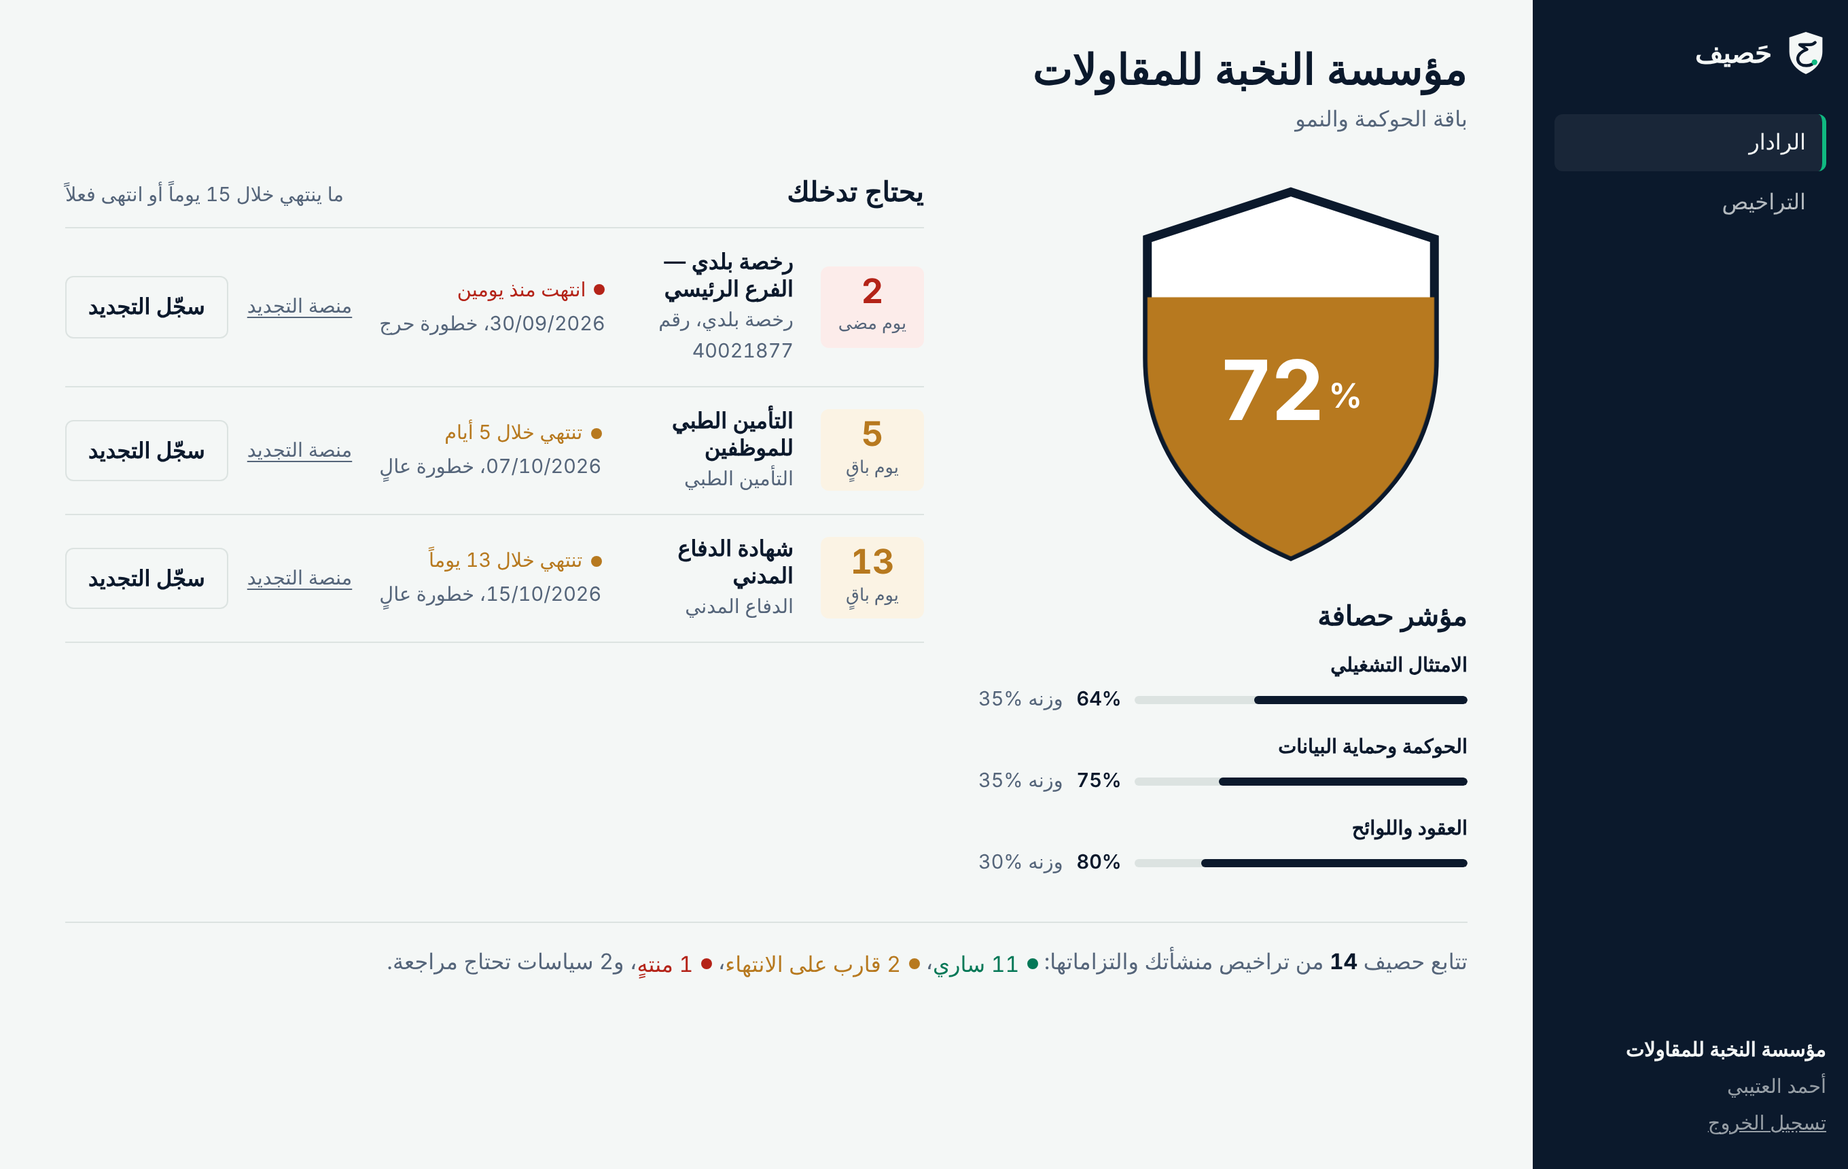
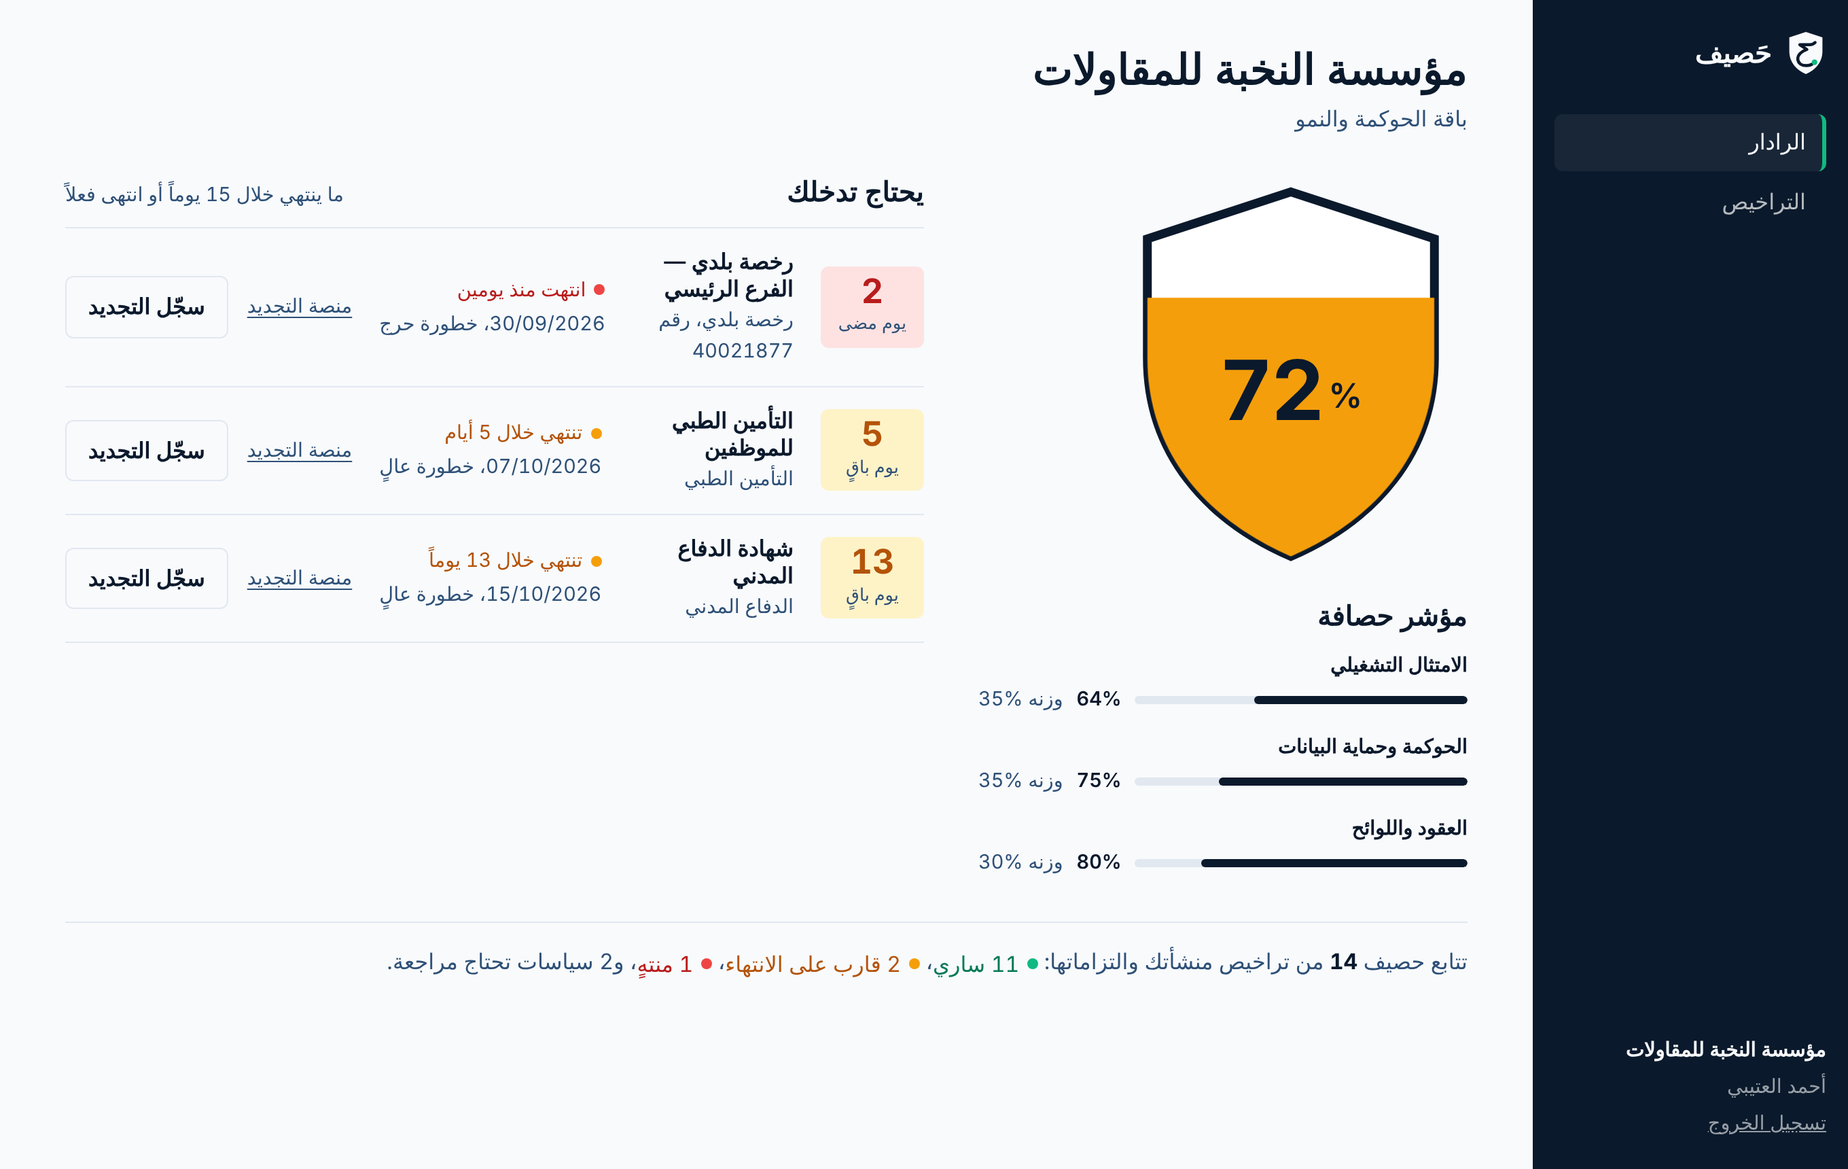
Brand palette, dev tooling (docker-compose, seed, dev.sh), CI, README
Claude-Session: https://claude.ai/code/session_016u1ktuMp1r5oLJ3fdV4WPW

diff --git a/packages/shared/src/tokens.css b/packages/shared/src/tokens.css
@@ -1,20 +1,47 @@
 /* رموز التصميم المشتركة — حَصيف
-   الكحلي والزمردي من هوية الشعار. الكهرماني والقرمزي لحالتي "قارب" و"منتهٍ" فقط،
-   فلا يُستخدم أي لون حالة للزينة: اللون في هذه الواجهة معلومة. */
+   لوحة الهوية المعتمدة من صاحب المشروع (--haseef-*) كما هي.
+   ألوان الحالة لا تُستخدم للزينة: اللون في هذه الواجهة معلومة.
+
+   قاعدة التباين: الزمردي والكهرماني والأحمر بدرجاتها المعتمدة للتعبئة والشارات
+   والنقاط فقط. النص الصغير بلون حالة يستخدم الدرجة "-text" الأغمق من نفس اللون،
+   لأن #F59E0B و #10B981 على الأبيض لا تبلغ تباين 4.5:1 المطلوب للقراءة. */
 
 :root {
-  --ink: #0B192C;          /* النص والهوية */
-  --ink-2: #1B2B42;        /* سطوح داكنة ثانوية */
-  --emerald: #10B981;      /* الهوية + ساري/ممتثل */
-  --emerald-deep: #047857; /* نص زمردي على خلفية فاتحة (تباين كافٍ) */
-  --amber: #B7791F;        /* قارب على الانتهاء */
-  --amber-wash: #FBF3E4;
-  --crimson: #B42318;      /* منتهٍ / حرج */
-  --crimson-wash: #FCECEA;
-  --paper: #F4F7F6;        /* خلفية باردة لا كريمية */
-  --surface: #FFFFFF;
-  --line: #DCE3E1;
-  --muted: #55657A;
+  /* ===== لوحة الهوية المعتمدة ===== */
+  --haseef-navy-deep:     #0B192C;
+  --haseef-navy-surface:  #1E3E62;
+  --haseef-navy-subtle:   #2E5077;
+  --haseef-emerald:       #10B981;
+  --haseef-emerald-light: #D1FAE5;
+  --haseef-emerald-glow:  rgba(16, 185, 129, 0.25);
+  --haseef-danger:        #EF4444;
+  --haseef-warning:       #F59E0B;
+  --haseef-bg-canvas:     #F8FAFC;
+  --haseef-bg-card:       #FFFFFF;
+
+  /* درجات نص مشتقة من اللوحة (للتباين فقط) */
+  --haseef-emerald-text:  #047857;
+  --haseef-warning-text:  #B45309;
+  --haseef-danger-text:   #B91C1C;
+  --haseef-warning-light: #FEF3C7;
+  --haseef-danger-light:  #FEE2E2;
+
+  /* ===== الأسماء الدلالية المستخدمة في الواجهتين ===== */
+  --ink: var(--haseef-navy-deep);
+  --ink-2: var(--haseef-navy-surface);
+  --emerald: var(--haseef-emerald);
+  --emerald-deep: var(--haseef-emerald-text);
+  --emerald-wash: var(--haseef-emerald-light);
+  --amber-fill: var(--haseef-warning);
+  --amber: var(--haseef-warning-text);
+  --amber-wash: var(--haseef-warning-light);
+  --crimson-fill: var(--haseef-danger);
+  --crimson: var(--haseef-danger-text);
+  --crimson-wash: var(--haseef-danger-light);
+  --paper: var(--haseef-bg-canvas);
+  --surface: var(--haseef-bg-card);
+  --line: #E2E8F0;
+  --muted: var(--haseef-navy-subtle);
 
   --font: "IBM Plex Sans Arabic", "Segoe UI", Tahoma, sans-serif;
 
@@ -74,7 +101,7 @@ button, input, select { font: inherit; color: inherit; }
 .field input, .field select {
   padding: 9px 12px; border: 1px solid var(--line); border-radius: var(--r-sm); background: var(--surface);
 }
-.field input:focus, .field select:focus { border-color: var(--ink); outline: none; box-shadow: 0 0 0 3px rgb(16 185 129 / 0.25); }
+.field input:focus, .field select:focus { border-color: var(--ink); outline: none; box-shadow: 0 0 0 3px var(--haseef-emerald-glow); }
 
 .error { color: var(--crimson); font-size: var(--t-sm); }
 .muted { color: var(--muted); }
@@ -82,6 +109,9 @@ button, input, select { font: inherit; color: inherit; }
 /* شارات الحالة: النقطة تحمل اللون، والنص يبقى مقروءاً */
 .status { display: inline-flex; align-items: center; gap: 6px; font-size: var(--t-sm); white-space: nowrap; }
 .status::before { content: ""; width: 8px; height: 8px; border-radius: 50%; background: currentColor; }
+.status[data-s="ACTIVE"]::before { background: var(--emerald); }
+.status[data-s="EXPIRING_SOON"]::before { background: var(--amber-fill); }
+.status[data-s="EXPIRED"]::before { background: var(--crimson-fill); }
 .status[data-s="ACTIVE"] { color: var(--emerald-deep); }
 .status[data-s="EXPIRING_SOON"] { color: var(--amber); }
 .status[data-s="EXPIRED"] { color: var(--crimson); }

diff --git a/apps/client/app/globals.css b/apps/client/app/globals.css
@@ -42,10 +42,10 @@
 .seal-figure { position: relative; width: min(100%, 260px); aspect-ratio: 64 / 72; }
 .seal-figure svg { width: 100%; height: 100%; display: block; overflow: visible; }
 .seal-level { fill: var(--emerald); transform-box: fill-box; transform-origin: bottom; animation: seal-rise 1.1s cubic-bezier(.2,.7,.2,1) both; }
-.seal-figure[data-tone="warn"] .seal-level { fill: var(--amber); }
-.seal-figure[data-tone="bad"] .seal-level { fill: var(--crimson); }
+.seal-figure[data-tone="warn"] .seal-level { fill: var(--amber-fill); }
+.seal-figure[data-tone="bad"] .seal-level { fill: var(--crimson-fill); }
 @keyframes seal-rise { from { transform: scaleY(0); } }
-/* الرقم فوق مستوى الامتلاء يُكتب بالأبيض، وتحته بالكحلي */
+/* الرقم كحلي دائماً: تباينه كافٍ على الزمردي والكهرماني والأحمر وعلى الأبيض */
 .seal-value {
   position: absolute; inset: 0; display: flex; align-items: center; justify-content: center;
   padding-top: 10%; direction: ltr;
@@ -55,8 +55,7 @@
   font-size: clamp(3rem, 9vw, var(--t-display)); font-weight: 700; line-height: 1; letter-spacing: -0.02em; color: var(--ink);
 }
 .seal-pct { font-size: var(--t-xl); font-weight: 600; margin-inline-start: 4px; margin-top: 0.35em; color: var(--ink); }
-.seal-figure[data-over="true"] .seal-number,
-.seal-figure[data-over="true"] .seal-pct { color: #fff; }
+
 .seal-unrated { font-size: var(--t-lg); font-weight: 600; color: var(--muted); background: var(--surface); padding: 2px 10px; border-radius: var(--r-sm); }
 
 .pillars { margin: 12px 0 0; display: grid; gap: 12px; }
@@ -98,6 +97,7 @@
 .tally { margin: 32px 0 0; padding-top: 16px; border-top: 1px solid var(--line); color: var(--muted); }
 .tally strong { color: var(--ink); }
 .tally .status { font-size: inherit; }
+.row[data-s="EXPIRING_SOON"] .row-days-n { color: var(--amber); }
 
 /* ---------- نموذج الإضافة ---------- */
 .add-form { margin-bottom: 24px; display: grid; gap: 16px; }

diff --git a/apps/admin/app/globals.css b/apps/admin/app/globals.css
@@ -48,14 +48,14 @@
 .table th.num { text-align: end; }
 .table td { padding: 10px 14px; border-bottom: 1px solid var(--line); vertical-align: top; }
 .table tr:last-child td { border-bottom: 0; }
-.table tbody tr:hover { background: #FAFCFB; }
+.table tbody tr:hover { background: var(--paper); }
 
 .filters { display: flex; gap: 6px; flex-wrap: wrap; }
 .filters button { padding: 5px 12px; border: 1px solid var(--line); background: var(--surface); border-radius: 999px; cursor: pointer; font-size: var(--t-sm); }
 .filters button[aria-pressed="true"] { background: var(--ink); color: var(--paper); border-color: var(--ink); }
 
 .pill { display: inline-block; padding: 1px 8px; border-radius: 999px; font-size: var(--t-xs); font-weight: 600; background: var(--paper); }
-.pill[data-tone="good"] { background: #E7F7F0; color: var(--emerald-deep); }
+.pill[data-tone="good"] { background: var(--emerald-wash); color: var(--emerald-deep); }
 .pill[data-tone="warn"] { background: var(--amber-wash); color: var(--amber); }
 .pill[data-tone="bad"] { background: var(--crimson-wash); color: var(--crimson); }
 

diff --git a/apps/client/components/ScoreSeal.tsx b/apps/client/components/ScoreSeal.tsx
@@ -22,7 +22,7 @@ export function ScoreSeal({ score }: { score: Score }) {
 
   return (
     <section className="seal" aria-labelledby="seal-title">
-      <div className="seal-figure" data-tone={t} data-over={level >= 58}>
+      <div className="seal-figure" data-tone={t}>
         <svg viewBox="0 0 64 72" aria-hidden="true">
           <defs>
             <clipPath id="seal-clip"><path d={SHIELD} /></clipPath>

diff --git a/apps/api/scripts/seed.py b/apps/api/scripts/seed.py
@@ -1,0 +1,97 @@
+"""بيانات تجريبية للتطوير: منشأتان، مستخدم لكل منهما، مستشار خارجي يخدم الاثنتين،
+ومدير منصة. كلمات المرور تُطبع عند التشغيل ولا تُخزَّن في المستودع.
+
+    python -m scripts.seed
+"""
+
+from __future__ import annotations
+
+import secrets
+from datetime import date, datetime, timedelta, timezone
+
+from sqlalchemy import text
+
+from haseef.db import platform_tx
+from haseef.security import hash_password
+from haseef.services.score_service import recompute
+
+TODAY = date.today()
+
+
+def run() -> None:
+    passwords: dict[str, str] = {}
+
+    def user(conn, email: str, name: str, phone: str | None = None, admin: bool = False) -> str:
+        pw = secrets.token_urlsafe(9)
+        passwords[email] = pw
+        return conn.execute(text("""
+            INSERT INTO users (email, full_name, phone_number, password_hash, is_platform_admin)
+            VALUES (:e, :n, :p, :h, :a)
+            ON CONFLICT (email) DO UPDATE SET password_hash = EXCLUDED.password_hash
+            RETURNING id"""), {"e": email, "n": name, "p": phone, "h": hash_password(pw), "a": admin}).scalar_one()
+
+    with platform_tx() as conn:
+        orgs = {}
+        for cr, name, industry, tier in [
+            ("1010123456", "مؤسسة النخبة للمقاولات", "المقاولات", "PROFESSIONAL_GRC"),
+            ("2050654321", "شركة واحة التقنية", "تقنية المعلومات", "ESSENTIAL"),
+        ]:
+            org_id = conn.execute(text("""
+                INSERT INTO organizations (cr_number, name, entity_legal_type, industry_type, commercial_size)
+                VALUES (:cr, :n, 'LLC', :i, 'SMALL')
+                ON CONFLICT (cr_number) DO UPDATE SET name = EXCLUDED.name RETURNING id"""),
+                {"cr": cr, "n": name, "i": industry}).scalar_one()
+            orgs[name] = org_id
+            conn.execute(text("DELETE FROM subscriptions WHERE org_id = :o"), {"o": org_id})
+            conn.execute(text("""
+                INSERT INTO subscriptions (org_id, plan_tier, billing_cycle, starts_at, ends_at)
+                VALUES (:o, :t, 'MONTHLY', :s, :e)"""),
+                {"o": org_id, "t": tier, "s": datetime.now(timezone.utc) - timedelta(days=10),
+                 "e": datetime.now(timezone.utc) + timedelta(days=20)})
+
+        nukhba, waha = orgs["مؤسسة النخبة للمقاولات"], orgs["شركة واحة التقنية"]
+        ahmad = user(conn, "ahmad@nukhba.example", "أحمد العتيبي", "+966500000001")
+        sara = user(conn, "sara@waha.example", "سارة القحطاني", "+966500000002")
+        advisor = user(conn, "advisor@example.sa", "مكتب الامتثال الاستشاري")
+        user(conn, "ops@haseef.sa", "فريق عمليات حصيف", admin=True)
+
+        for org, uid, role in [(nukhba, ahmad, "ORG_ADMIN"), (waha, sara, "ORG_ADMIN"),
+                               (nukhba, advisor, "EXTERNAL_ADVISOR"), (waha, advisor, "EXTERNAL_ADVISOR")]:
+            conn.execute(text("""INSERT INTO memberships (org_id, user_id, role) VALUES (:o, :u, :r)
+                                 ON CONFLICT (org_id, user_id) DO NOTHING"""), {"o": org, "u": uid, "r": role})
+
+        conn.execute(text("DELETE FROM compliance_items WHERE org_id IN (:a, :b)"), {"a": nukhba, "b": waha})
+        items = [
+            (nukhba, "COMMERCIAL_REG", "السجل التجاري", 140, "CRITICAL", "https://mc.gov.sa"),
+            (nukhba, "BALADY", "رخصة بلدي — الفرع الرئيسي", -2, "CRITICAL", "https://balady.gov.sa"),
+            (nukhba, "CHI_INSURANCE", "التأمين الطبي للموظفين", 5, "HIGH", None),
+            (nukhba, "CIVIL_DEFENSE", "شهادة الدفاع المدني", 13, "HIGH", "https://salamah.998.gov.sa"),
+            (nukhba, "QIWA_NITAQAT", "شهادة السعودة", 75, "HIGH", "https://qiwa.sa"),
+            (nukhba, "ZATCA", "شهادة الزكاة", 210, "HIGH", "https://zatca.gov.sa"),
+            (waha, "COMMERCIAL_REG", "السجل التجاري", 25, "CRITICAL", "https://mc.gov.sa"),
+            (waha, "GOSI", "شهادة التأمينات", 90, "HIGH", "https://gosi.gov.sa"),
+        ]
+        for org, cat, title, days, risk, url in items:
+            conn.execute(text("""
+                INSERT INTO compliance_items (org_id, category, title, expiry_date, risk_level, renewal_url)
+                VALUES (:o, :c, :t, :d, :r, :u)"""),
+                {"o": org, "c": cat, "t": title, "d": TODAY + timedelta(days=days), "r": risk, "u": url})
+
+        conn.execute(text("DELETE FROM internal_policies WHERE org_id = :o"), {"o": nukhba})
+        for ptype, title, days in [("CONFLICT_OF_INTEREST", "سياسة تعارض المصالح", 120),
+                                   ("PRIVACY_POLICY", "سياسة الخصوصية", -10)]:
+            conn.execute(text("""INSERT INTO internal_policies (org_id, policy_type, title, review_due_date)
+                                 VALUES (:o, :p, :t, :d)"""),
+                         {"o": nukhba, "p": ptype, "t": title, "d": TODAY + timedelta(days=days)})
+
+    for org in (nukhba, waha):
+        with platform_tx() as conn:
+            recompute(conn, org)
+
+    print("\nحسابات التطوير (تتغير كلمات المرور مع كل تشغيل):")
+    for email, pw in passwords.items():
+        print(f"  {email:<26} {pw}")
+
+
+if __name__ == "__main__":
+    run()

diff --git a/README.md b/README.md
@@ -1,0 +1,71 @@
+# حَصيف — منصة الحوكمة والامتثال
+
+منصة سعودية لمتابعة تراخيص المنشآت وحوكمتها وامتثالها لنظام حماية البيانات الشخصية.
+المواصفات الكاملة في [`docs/SPEC.md`](docs/SPEC.md) (الإصدار 1.1).
+
+## التشغيل على جهازك (ماك)
+
+**مرة واحدة فقط**، ثبّت:
+1. [Docker Desktop](https://www.docker.com/products/docker-desktop/) وشغّله.
+2. [Python 3.12+](https://www.python.org/downloads/).
+3. [Node.js 20+](https://nodejs.org/).
+
+ثم من تطبيق **Terminal**، داخل مجلد المشروع:
+
+```bash
+./scripts/dev.sh
+```
+
+يشغّل السكربت قاعدة البيانات، ويثبّت الحزم، ويشغّل الاختبارات، وينشئ بيانات تجريبية **ويطبع كلمات المرور**، ثم يفتح:
+
+| | الرابط |
+|---|---|
+| واجهة العميل | http://localhost:3000 |
+| لوحة الإدارة | http://localhost:3001 |
+| توثيق واجهة الخادم | http://localhost:8000/docs |
+
+حسابات التجربة: `ahmad@nukhba.example` (عميل)، `advisor@example.sa` (مستشار يخدم منشأتين)، `ops@haseef.sa` (فريق حصيف).
+
+## البنية
+
+```
+apps/
+  api/        FastAPI + Celery — الخادم ومحرك التنبيهات والذكاء الاصطناعي
+    haseef/domain/    المنطق النقي (التنبيهات، المؤشر، حجب البيانات، العربية) — مختبر بالكامل
+    haseef/services/  ربط المنطق بقاعدة البيانات
+    haseef/ai/        مسار التدقيق والتحقق من مخرجات النموذج
+    haseef/routers/   واجهات REST
+  client/     Next.js — app.haseef.sa
+  admin/      Next.js — admin.haseef.sa
+packages/
+  shared/     الأنواع، عميل الواجهة، الصياغة العربية، رموز التصميم
+  brand/      الشعار (SVG)
+db/
+  migrations/ المخطط (PostgreSQL 16 + pgvector + RLS)
+  tests/      اختبارات العزل بين المنشآت والعروض + فحص كل استعلامات الخادم
+```
+
+## الاختبارات
+
+```bash
+db/tests/run.sh                                   # العزل بين المنشآت (RLS) والعروض
+python3 db/tests/sql_static_check.py apps/api     # كل استعلام في الخادم صالح مقابل المخطط
+cd apps/api && .venv/bin/pytest                   # منطق التنبيهات، المؤشر، الحجب، التحقق من مخرجات النموذج
+npm test -w @haseef/shared                        # الصياغة العربية في الواجهة
+```
+
+## حالة المرحلة 1
+
+| الجزء | الحالة |
+|---|---|
+| مخطط قاعدة البيانات + RLS | ✅ مكتمل ومختبر على PostgreSQL فعلي |
+| محرك التنبيهات (تخطيط وإرسال وإعادة محاولة) | ✅ المنطق مختبر؛ الاستعلامات مفحوصة |
+| مؤشر حصافة | ✅ مختبر |
+| حجب البيانات الشخصية | ✅ مختبر |
+| التحقق من مخرجات الذكاء الاصطناعي | ✅ مختبر |
+| واجهات الخادم (المصادقة، التراخيص، السياسات، الإدارة) | ✅ مكتوبة؛ أول تشغيل فعلي على جهازك |
+| واجهة العميل: الدخول، الرادار، التراخيص | ✅ مكتوبة؛ التصميم معاين |
+| لوحة الإدارة: نظرة عامة، المنشآت، التنبيهات، الاستهلاك | ✅ مكتوبة |
+| ربط مزوّد واتساب فعلي | ⏳ المرحلة 3 (يحتاج حساب Unifonic/Meta واعتماد القوالب) |
+| مزوّد الذكاء الاصطناعي داخل المملكة | ⏳ قرار مطلوب قبل المرحلة 2 |
+| الحوكمة، سجل المعالجة، تقييم الأثر، مختبر العقود (شاشات) | ⏳ المرحلتان 2 و3 (الجداول جاهزة) |
